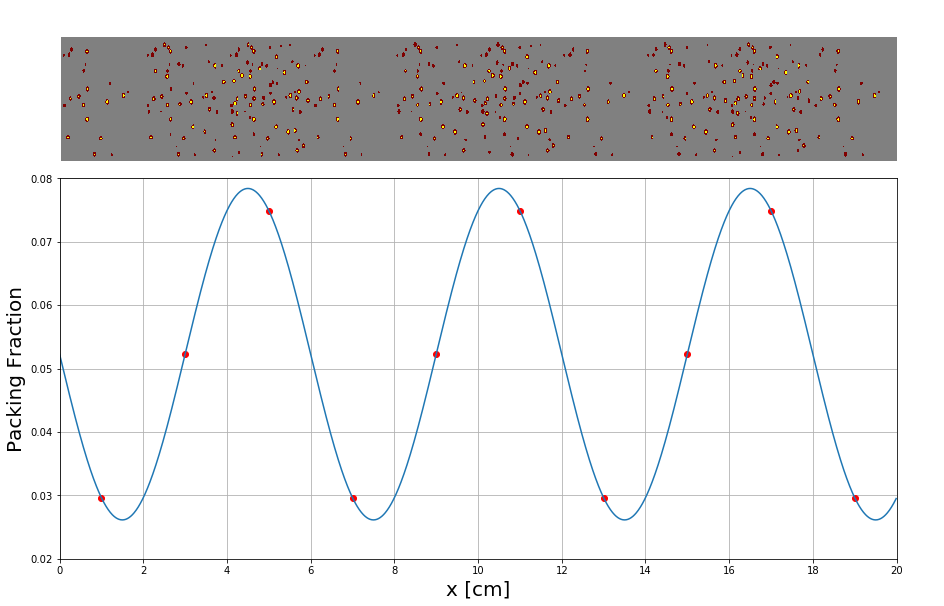
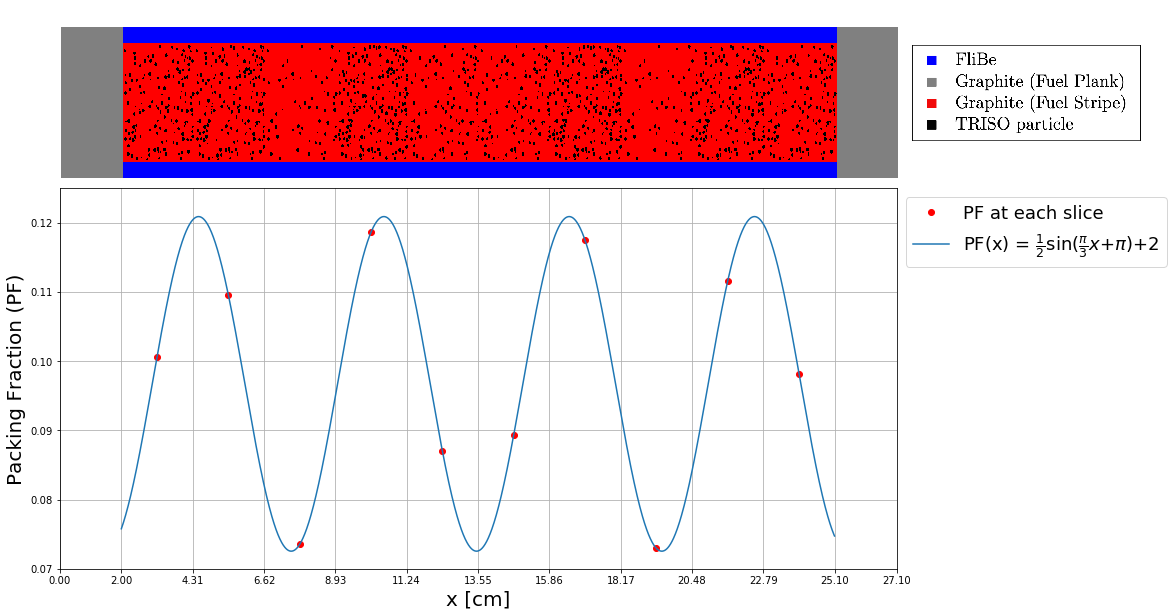
progress

diff --git a/docs/realm-demo.tex b/docs/realm-demo.tex
@@ -9,45 +9,77 @@ problem.
 \section{Problem Definition}
 I explore how inhomogeneous fuel distributions impact $k_{eff}$ compared to 
 homogenous fuel distributions that are customary in most reactor designs. 
-The reactor core explored is a simple $20 \times 2 \times 2\ cm^3$ slab design
-with reflective boundary conditions. 
-The slab is divided into ten slices along the x axis resulting in 
-$2 \times 2 \times 2\ cm^3$ slices. 
-I use \gls{TRISO} fuel with a graphite moderator.
-Each \gls{TRISO} particle has the same dimensions and material composition 
-as in the \gls{FHR} benchmark (Figure \ref{fig:ahtr-triso}). 
-
-The \gls{REALM} optimization problem's objective is to maximize $k_{eff}$, by 
-varying the \gls{TRISO} particle packing fraction for each slice, while keeping 
-total \gls{TRISO} particle packing fraction constant at 0.05. 
-The \gls{TRISO} particle packing fraction's distribution across slices is 
-governed by a sine equation: 
-\begin{align}
-    PF(x) &= a\ sin(bx + c) + 1 \\
-    \intertext{where}
-    a, b, c &= \mbox{constants that control sine function's shape} \nonumber \\
-    x &= \mbox{midpoint value for each slice} \nonumber
-\end{align}
-The genetic algorithm varies the $a$, $b$ and $c$ variables. 
-The packing fraction values are then normalized by the total packing fraction. 
-Thus, for a packing fraction distribution of 
-$PF(x) = 0.5\ sin(\frac{\pi}{3}x + \pi) + 1 $. 
-The packing fraction for the ten slices are 0.0296, 0.0525, 0.0748, 0.0294, 
-0.0530, 0.0746, 0.0292, 0.0534, 0.0744, 0.0290, respectively. 
-Figure \ref{fig:triso_distribution} shows a plot of the sine curve, highlights 
-the packing fraction at the respective midpoints, and an xz view of the slab
-with varying packing fraction. 
+The reactor core explored is a straightened slab from the \gls{FHR} benchmark's
+\gls{AHTR} design.
+Figure \ref{fig:straightened_slab} illustrates the straightened fuel slab. 
 \begin{figure}[]
     \centering
-    \includegraphics[width=\linewidth]{triso_distribution_sine.png} 
-    \caption{TRISO}
+    \includegraphics[width=\linewidth]{straightened_slab.png}
+    \raggedright
+    \resizebox{0.3\textwidth}{!}{
+        \hspace{1cm}
+        \fbox{\begin{tabular}{ll}
+            \textcolor{fhrblue}{$\blacksquare$} & FliBe \\
+            \textcolor{fhrgrey}{$\blacksquare$} & Graphite (Fuel Plank)\\
+            \textcolor{fhrred}{$\blacksquare$} & Graphite (Fuel Stripe) \\
+            \textcolor{fhrblack}{$\blacksquare$} & TRISO particle 
+
+            \end{tabular}}}
+    \caption{Straightened \acrfull{AHTR} fuel slab.}
+    \label{fig:straightened_slab}
+\end{figure}
+The slab has dimensions of $27.1 \times 3.25 \times 1.85\ cm^3$
+with periodic boundary conditions in the x and y directions and reflective 
+boundary conditions in the z direction. 
+The materials are the same as in the \gls{FHR} benchmark, with the exception 
+of the homogenization of each \gls{TRISO} particle's four outer layers: 
+porous carbon buffer, inner pyrolytic carbon, silicon carbide layer, and the 
+outer pyrolitic carbon. 
+The \gls{TRISO} particles' dimensions remain the same.
+
+The \gls{REALM} optimization problem's objective is to maximize the slab's 
+$k_{eff}$, by varying the \gls{TRISO} particle packing fraction across the slab,
+while keeping total \gls{TRISO} particle total packing fraction constant at 0.0979. 
+This total packing fraction is consistent with the original straightened slab with 
+TRISO particles in fuel stripes (Figure \ref{fig:straightened_slab}). 
+The slab is divided into ten slices along the x axis between the FliBe and graphite 
+buffers resulting in ten $2.31 \times 2.55 \times 1.85\ cm^3$ slices. 
+The \gls{TRISO} particle packing fraction's distribution across slices is 
+governed by a sine distribution: 
+\begin{align}
+    PF(x) &= (a\ sin(bx + c) + 2) \times NF\\
+    \intertext{where}
+    a, b, c &= \mbox{constants that control sine function's shape} \nonumber \\
+    x &= \mbox{midpoint value for each slice} \nonumber \\
+    NF &= \mbox{Normalization factor} \nonumber
+\end{align}
+The sine distribution's value at each of the ten x-slices' midpoints are collected and 
+normalized by the total packing fraction to ensure that there is a consistent 
+amount of \gls{TRISO} particles in the slab. 
+Thus, for a packing fraction distribution of 
+$PF(x) = (0.5\ sin(\frac{\pi}{3}x + \pi) + 2)  \times NF$. 
+The packing fraction for the ten slices are 0.103, 0.120, 0.049, 0.138, 
+0.076, 0.081, 0.136, 0.048, 0.125, 0.098, respectively. 
+Figure \ref{fig:triso_distribution} shows a plot of this sine distribution, highlights 
+the packing fraction at the respective midpoints, and an xy view of the slab
+with packing fraction varying based on this sine distribution. 
+\begin{figure}[]
+    \centering
+    \makebox[\textwidth][c]{\includegraphics[width=1.1\linewidth]{triso_distribution_sine.png}} 
+    \caption{Below: $PF(x) = (0.5\ sin(\frac{\pi}{3}x + \pi) + 2)  \times NF$ 
+    sine distribution with red points indicating the packing fraction at each slice. 
+    Above: Straightened \acrlong{AHTR} fuel slab with varying \gls{TRISO} particle 
+    distribution across ten slices based on the sine distribution. }
     \label{fig:triso_distribution}
 \end{figure}
-The evaluator is OpenMC which is used to calculate $k_{eff}$. 
+The genetic algorithm varies the $a$, $b$ and $c$ variables to find a combination 
+that maximizes the average $k_{eff}$ of the genetic algorithm's final generation 
+of $a$, $b$ and $c$ combinations.
+The OpenMC evaluator calculates $k_{eff}$. 
 
 
 \section{Hyperparameter Search}
-I conducted a coarse hyperparameter search with random sampling. 
+I conducted a hyperparameter search with random sampling. 
 I used random search over grid search because of the former's efficiency in 
 high-dimensional spaces. 
 Figure \ref{fig:random_vs_grid_sampling} illustrates how grid sampling gives 
@@ -58,7 +90,9 @@ space, but far more evenly distributed in the subspaces.
 \begin{figure}[]
     \centering
     \includegraphics[width=0.8\linewidth]{random_vs_grid_sampling.png} 
-    \caption{TRISO}
+    \caption{The impact of grid sampling vs random sampling on coverage of projections 
+    into subspaces (reproduced from \cite{}). Random sampling has better coverage 
+    in the subspaces.}
     \label{fig:random_vs_grid_sampling}
 \end{figure}
 The hyperparameters varied include: population size, number of generations, 
@@ -66,4 +100,121 @@ mutation probability, mating probability, selection operator, selection operator
 k value, selection operator's tournament size, mutation operator, and mating 
 operator.  
 
+I used random sampling with a coarse-to-fine sampling scheme, previously 
+discussed in Chapter \ref{chap:lit-review} to perform the hyperparameter search. 
+I started with 25 coarse experiments and fine tuned the hyperparameters
+with 15 fine experiments. 
+Table \ref{tab:hyperparameter_search} shows the lower and upper bounds used 
+for random sampling of each hyperparameter. 
+\begin{table}[]
+    \centering
+    \onehalfspacing
+    \caption{Hyperparameters}
+	\label{tab:hyperparameter_search}
+    \footnotesize
+    \begin{tabular}{p{4cm}lp{3.4cm}p{3.4cm}p{3.4cm}}
+    \hline 
+    \textbf{Hyperparameter}& \textbf{Type} & \textbf{Coarse Search Bounds} & \textbf{Fine Search 1 Bounds} & \textbf{Fine Search 2 Bounds} \\
+    \hline
+    Experiments & - & 0 to 24 & 24 to 34 & 35 to 39 \\ 
+    \hline
+    Population size (pop) & Continuous & 10 $<$ x $<$ 100 & 20 $<$ x $<$ 60 & 60 \\ 
+    Mutation probability & Continuous & 0.1 $<$ x $<$ 0.4 & 0.2 $<$ x $<$ 0.4& 0.2 $<$ x $<$ 0.3\\
+    Mating probability & Continuous & 0.1 $<$ x $<$ 0.6 &  0.1 $<$ x $<$ 0.3 &  0.45 $<$ x $<$ 0.6\\
+    Selection operator & Discrete & \texttt{SelTournament}, \texttt{SelBest}, \texttt{SelNSGA2} & \texttt{SelTournament}, \texttt{SelBest}, \texttt{SelNSGA2}& \texttt{SelTournament}\\
+    Selection individuals & Continuous & $\frac{1}{3}pop$ $<$ x $<$ $\frac{2}{3}pop$ & $\frac{1}{3}pop$ $<$ x $<$ $\frac{2}{3}pop$ & 15\\
+    Selection tournament size (only for SelTournament) & Continuous & 2 $<$ x $<$ 8 &2 $<$ x $<$ 8&5\\
+    Mutation Operator & Discrete & \texttt{mutPolynomialBounded} &\texttt{mutPolynomialBounded}&\texttt{mutPolynomialBounded}\\
+    Mating Operator & Discrete& \texttt{cxOnePoint}, \texttt{cxUniform}, \texttt{cxBlend} &\texttt{cxOnePoint}, \texttt{cxUniform}, \texttt{cxBlend}&\texttt{cxOnePoint}, \texttt{cxBlend}\\ 
+    \hline
+    \end{tabular}
+\end{table}
+
+The objective of the initial 25 coarse experiments is to narrow down the 
+hyperparameters to find optimal hyperparameter bounds that produce a
+higher average $k_{eff}$ values in each experiment's final generation. 
+Figure \ref{fig:hyperparameter_sens} shows the hyperparameters' plotted against 
+each other with a third color dimension of the average $k_{eff}$ value in each 
+experiment's final generation. 
+The lighter the scatter point is, the larger the final population's 
+average $k_{eff}$ value is, thus the better the hyperparameter set. 
+\begin{figure}[]
+    \centering
+    \makebox[\textwidth][c]{\includegraphics[width=1.3\linewidth]{hyperparameter_sens.png}} 
+    \caption{Coarse hyperparameters search's results. Hyperparameter values are plotted 
+    against each other with a third dimension of each experiment's final population's 
+    average $k_{eff}$ indicated by each scatter point's color.}
+    \label{fig:hyperparameter_sens}
+\end{figure}
+The hyperparameters are plotted against each other to visualize interdependence 
+between hyperparameters. 
+From the coarse hyperparameter search, the trends that stood out to me were: 
+\begin{itemize}
+    \item Mutation probability has larger $k_{eff ave}$ between 0.2 and 0.4. 
+    \item Mating probability has larger $k_{eff ave}$ when between 0.1 and 0.3. 
+    \item Population size has larger $k_{eff ave}$ when between 20 and 60. 
+\end{itemize}
+There is also not much interdependence between hyperparameters. 
+
+Next, I proceeded to the fine search. 
+From Figure \ref{fig:hyperparameter_sens}, I narrowed down population size, 
+mutation probability, and mating probability bounds, as shown in Table 
+\ref{tab:hyperparameter_search}'s \textit{Fine Search 1 Bounds} column. 
+I did not see any significant trends in the other hyperparameters so I chose 
+to leave them as is. 
+I ran 10 more experiments (25 to 34) with sampling hyperparameters from 
+the \textit{Fine Search 1 Bounds}. 
+From these results, I conducted a second fine search with 5 experiments 
+(35 to 39) with further tuned hyperparameter bounds as shown in Table 
+\ref{tab:hyperparameter_search}'s \textit{Fine Search 2 Bounds} column. 
+Figure \ref{fig:input_hyperparameters_sens} shows the relationship between 
+hyperparameter values and a,b,c input parameters, $k_{eff max}$, and 
+$k_{eff ave}$ for each experiment's final generation. 
+The coarse experiments' scatter points are $50\%$ transparent, while the fine 
+experiments' scatter point are opaque. 
+\begin{figure}[]
+    \centering
+    \makebox[\textwidth][c]{\includegraphics[width=1.3\linewidth]{input_hyperparameters_sens.png}} 
+    \caption{Fine hyperparameters search's results. Hyperparameters are plotted 
+    against a,b,c input parameters, each experiment's final generation's 
+    $k_{eff max}$, and $k_{eff ave}$ with a third dimension of each experiment's 
+    final population's average $k_{eff}$ indicated by each scatter point's color.}
+    \label{fig:input_hyperparameters_sens}
+\end{figure}
+
+Table \ref{tab:topfive} shows the hyperparameters for the five experiments 
+with the highest $k_{eff ave}$ for each experiment's final generation.
+The best performing set of hyperparameters are from the final 
+\textit{Fine Search 2} and is experiment 39 in Table \ref{tab:topfive}
+with $k_{eff max} = 1.40519$ and $k_{eff ave} = 1.40165$.
+\begin{table}[]
+    \centering
+    \onehalfspacing
+    \caption{}
+	\label{tab:topfive}
+    \footnotesize
+    \makebox[\textwidth][c]{\begin{tabular}{p{3cm}p{3cm}p{3cm}p{3cm}p{3cm}p{3cm}}
+    \hline 
+    \textbf{Input/Output Parameters}& \textbf{Experiment 6} & \textbf{Experiment 15} & \textbf{Experiment 24} & \textbf{Experiment 36} & \textbf{Experiment 39}\\
+    \hline 
+    $k_{eff ave}$ & 1.39876 &1.40175&1.40118&1.39906&1.40165\\ 
+    $k_{eff max}$ & 1.40954 &1.40440&1.40365&1.40590&1.40519\\ 
+    a & 1.993&1.998&1.999&1.997&1.989\\
+    b & 0.057&0.367&0.320&0.339&0.354\\ 
+    c & 3.571&3.022&3.615&3.053&3.143\\
+    \hline
+    \textbf{Hyperparameter}& &&&&\\
+    Population size & 83 & 28&74&60&60\\ 
+    Mutation probability & 0.32 &0.26&0.21&0.23&0.23\\
+    Mating probability & 0.17 &0.53&0.48&0.59&0.46\\
+    Selection operator & \texttt{selTournament} &\texttt{selTournament}&\texttt{selBest}&\texttt{selTournament}&\texttt{selTournament}\\
+    Selection individuals & 38 &14&25&15&15\\
+    Selection tournament size & 7 &5&-&5&5\\
+    Mutation Operator & \texttt{mutPolynomial} \texttt{Bounded}&\texttt{mutPolynomial} \texttt{Bounded}&\texttt{mutPolynomial} \texttt{Bounded}&\texttt{mutPolynomial} \texttt{Bounded}&\texttt{mutPolynomial} \texttt{Bounded}\\
+    Mating Operator & \texttt{cxOnePoint} &\texttt{cxOnePoint}&\texttt{cxUniform}&\texttt{cxBlend}&\texttt{cxBlend}\\ 
+    \hline
+    \end{tabular}}
+\end{table}
+
 \section{Results}
+
